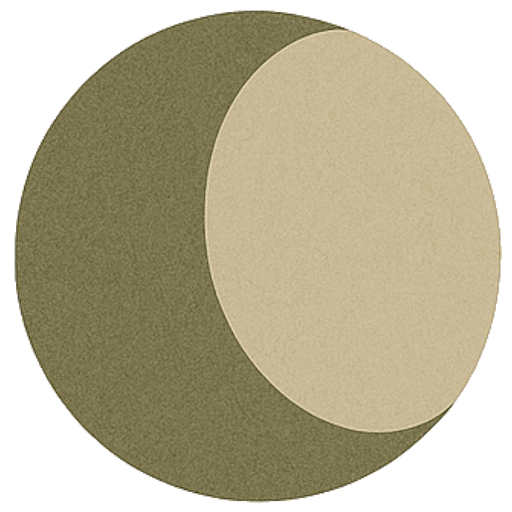
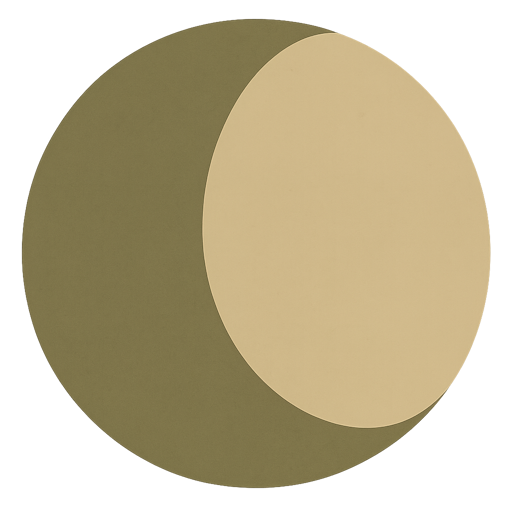
Lifted UI pictos. Nos generating mipmaps -> better scaling in ImGui

diff --git a/Vroom/src/Render/Abstraction/Texture2D.cpp b/Vroom/src/Render/Abstraction/Texture2D.cpp
@@ -91,7 +91,7 @@ void Texture2D::createColors(int width, int height, int channels, const void *da
     glGenTextures(1, &m_RendererID);
 
   bind();
-  GLCall(glTexParameteri(GL_TEXTURE_2D, GL_TEXTURE_MIN_FILTER, GL_LINEAR));
+  GLCall(glTexParameteri(GL_TEXTURE_2D, GL_TEXTURE_MIN_FILTER, GL_LINEAR_MIPMAP_LINEAR));
   GLCall(glTexParameteri(GL_TEXTURE_2D, GL_TEXTURE_MAG_FILTER, GL_LINEAR));
   GLCall(glTexParameteri(GL_TEXTURE_2D, GL_TEXTURE_WRAP_S, GL_CLAMP_TO_EDGE));
   GLCall(glTexParameteri(GL_TEXTURE_2D, GL_TEXTURE_WRAP_T, GL_CLAMP_TO_EDGE));
@@ -105,6 +105,8 @@ void Texture2D::createColors(int width, int height, int channels, const void *da
       ToGlFormat(ChannelsToTextureFormat(channels)),
       GL_UNSIGNED_BYTE,
       data));
+  
+  glGenerateMipmap(GL_TEXTURE_2D);
 
   m_width = width;
   m_height = height;

diff --git a/VroomEditor/src/UserInterface/UserInterfaceLayer.cpp b/VroomEditor/src/UserInterface/UserInterfaceLayer.cpp
@@ -52,6 +52,11 @@ void UserInterfaceLayer::onInit()
   ImGui::StyleColorsDark();
   io.ConfigFlags |= ImGuiConfigFlags_DockingEnable;
 
+  auto& style = ImGui::GetStyle();
+  style.AntiAliasedFill = true;
+  style.AntiAliasedLines = true;
+  style.AntiAliasedLinesUseTex = true;
+
   ImGui_ImplGlfw_InitForOpenGL(Application::Get().getWindow().getGLFWHandle(), true);
   ImGui_ImplOpenGL3_Init("#version 450");
 
